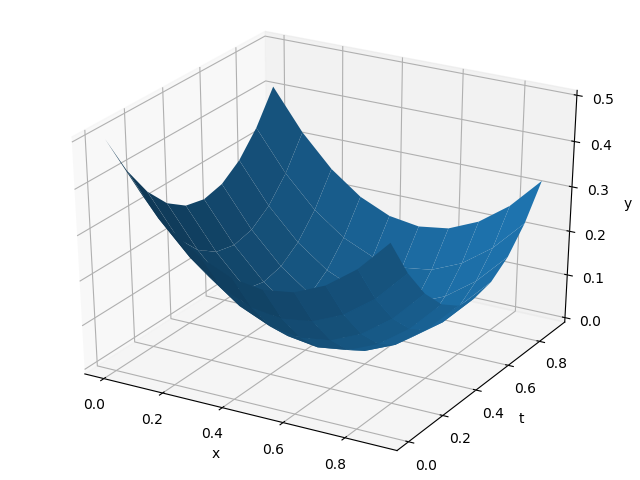
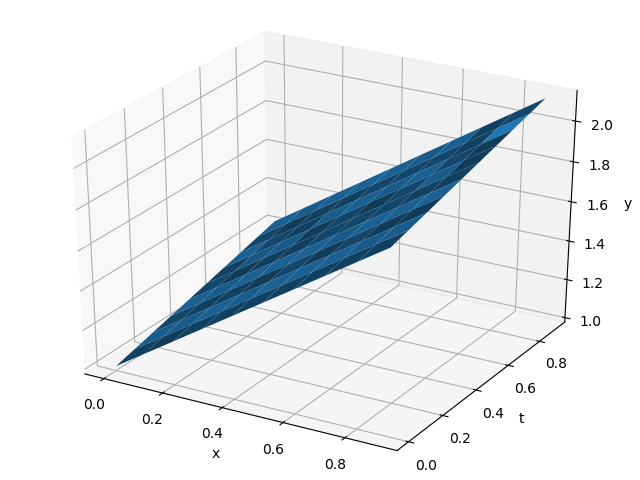
work in lesson

diff --git a/function.py b/function.py
@@ -8,26 +8,26 @@ def G(s):
     if s[1] <= 0:
         return 0
     else:
-         return 1/(4*math.pi*(math.e**2)*s[1])**0.5 *math.exp((-1*s[0]**2)/(4*math.e*s[1]))
+        #  return 1/(4*math.pi*(math.e**2)*s[1])**0.5 *math.exp((-1*s[0]**2)/(4*math.e*s[1]))
 
-        # return 1/(2*(math.pi * s[1])**0.5) * math.exp(-( s[1] + (s[0]-s[1])**2 / (4* s[1] )))  # пример из методички
+        return 1/(2*(math.pi * s[1])**0.5) * math.exp(-( s[1] + (s[0]-s[1])**2 / (4* s[1] )))  # пример из методички
 
 
 def y(s: np.ndarray)-> float:
     res = 0
     #for i in range(s.shape[0]):
-    for i in range(2):
-        res+= (s[i] -0.5)**2
+    # for i in range(2):
+    #     res+= (s[i] -0.5)**2
     # res = s[1]**2 + s[0]**3
 
-    # res = s[0] + 1 + s[1]/4       # пример из методички
+    res = s[0] + 1 + s[1]/4       # пример из методички
     return res
 
 
 def U(s):
-     return 2*(s[1]-0.5)- 2*math.e**2
+    #  return 2*(s[1]-0.5)- 2*math.e**2
     #return 2*s[1] - 6*math.e**2*s[0]
-    # return  9/4 + s[1]/4 + s[0]  # пример из методички
+    return  9/4 + s[1]/4 + s[0]  # пример из методички
 
 
 if __name__ == '__main__':
